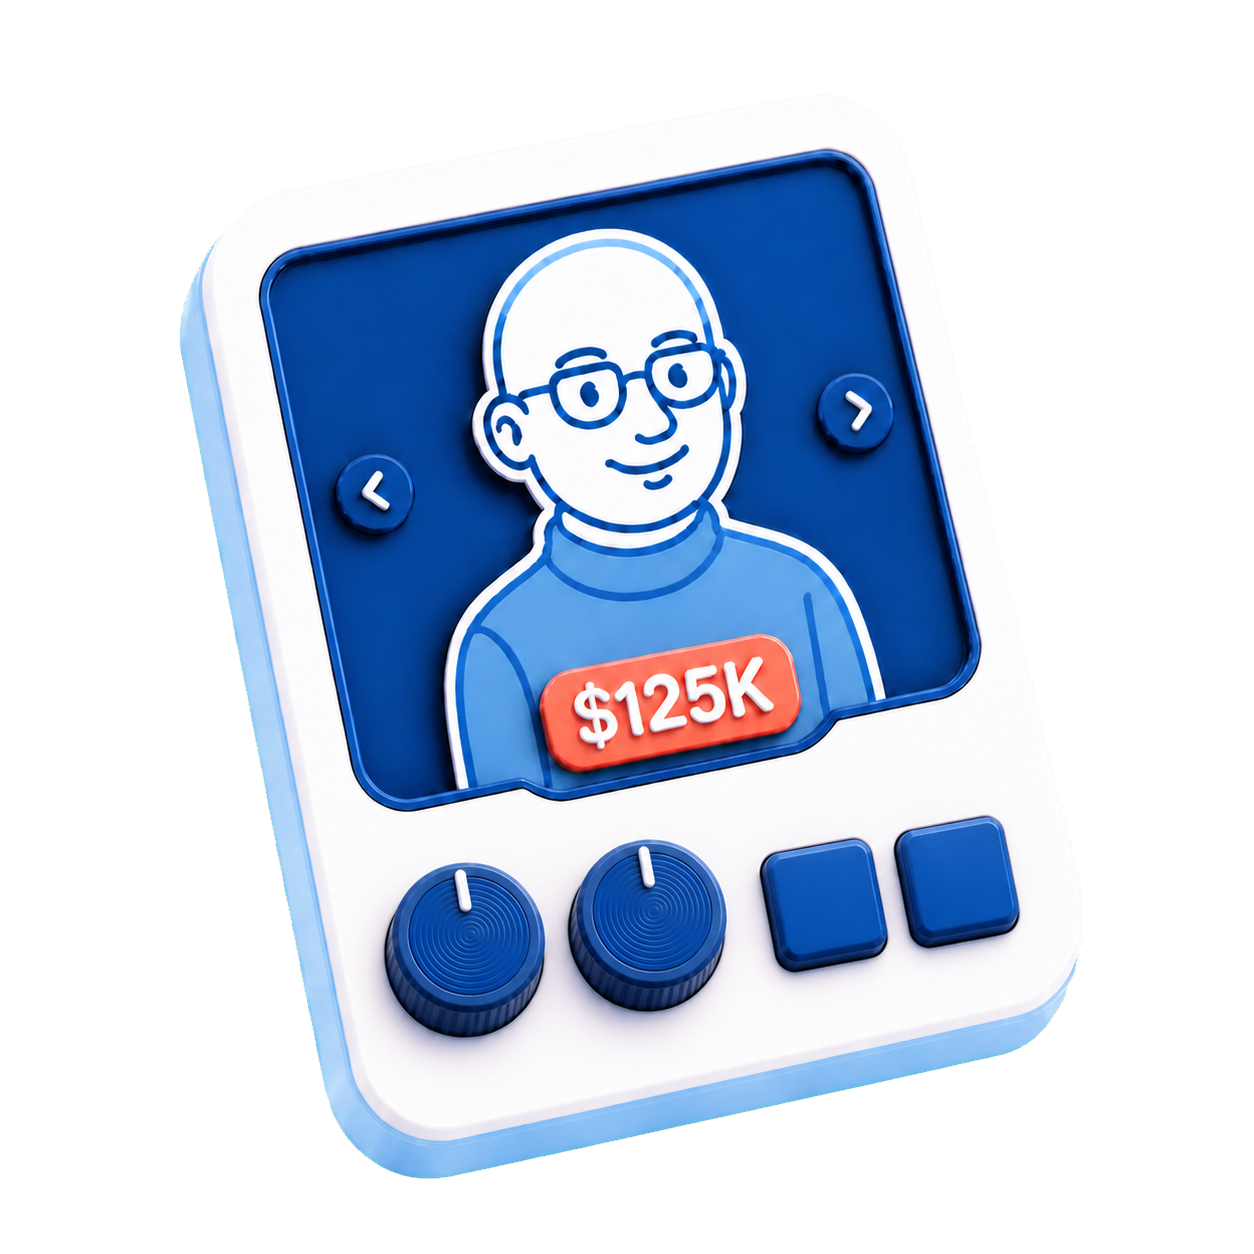
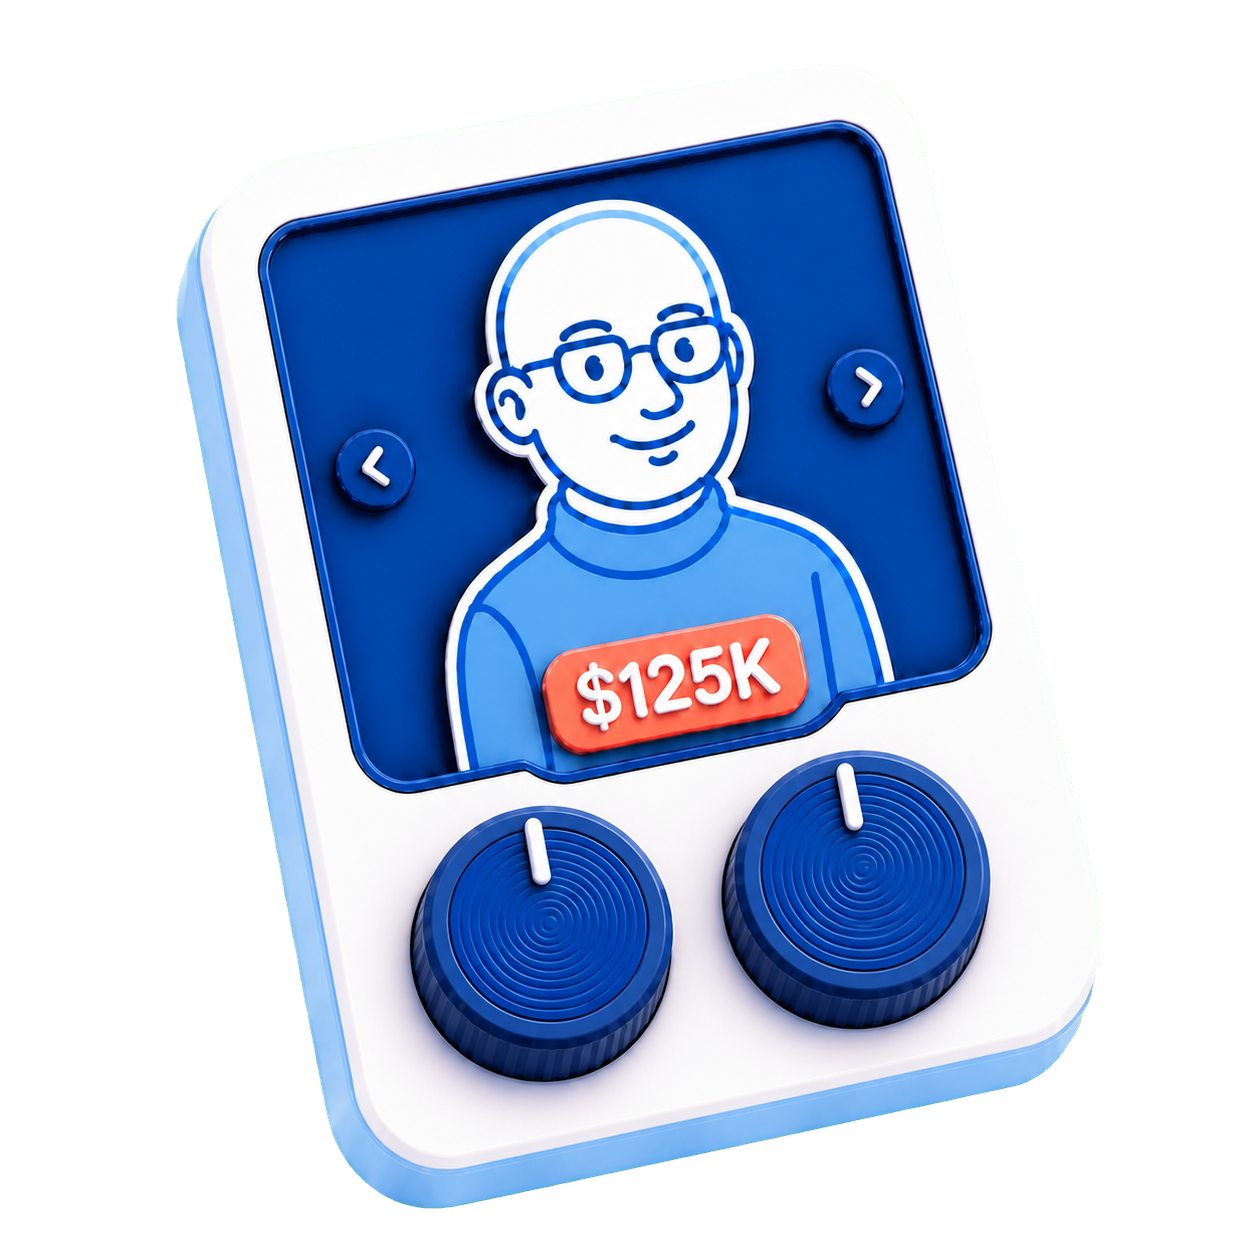
Enlarge and simplify ROI radial controls

Changed region(s): [[0.1244, 0.0933, 0.8708, 0.9641], [0.1866, 0.4976, 0.2177, 0.5287]]

diff --git a/app/globals.css b/app/globals.css
@@ -787,8 +787,8 @@ main {
 }
 
 .app-icon--equisoft-labs .app-icon-image--roi-calculator {
-  width: 118%;
-  height: 118%;
+  width: 136%;
+  height: 136%;
   max-width: none;
   object-fit: contain;
   object-position: center;
